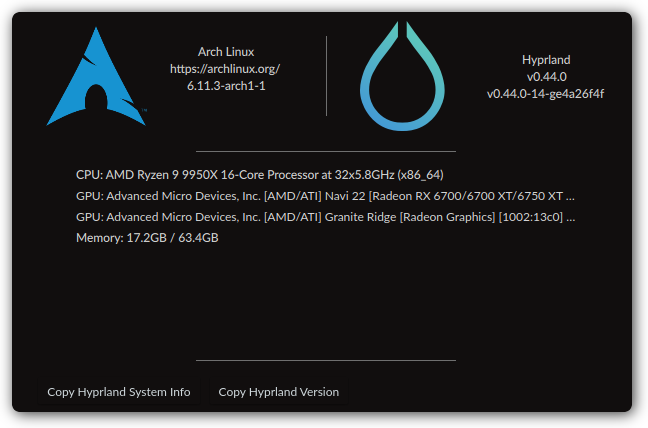
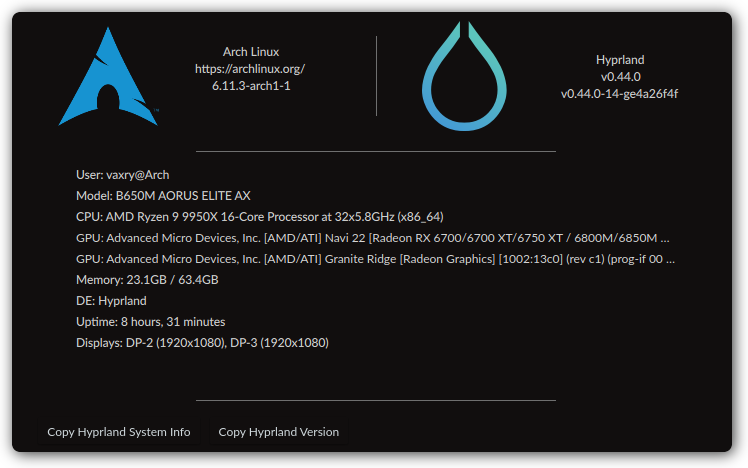
core: add more data fields

diff --git a/qml/main.qml b/qml/main.qml
@@ -152,6 +152,26 @@ ApplicationWindow {
             Layout.rightMargin: 60
 
             Text {
+                visible: hsi.getUserAt().length() > 0
+                text: "User: " + hsi.getUserAt()
+                Layout.maximumWidth: _width - 120
+                color: system.windowText
+                elide: Text.ElideRight
+                textFormat: Text.PlainText
+                wrapMode: Text.NoWrap
+            }
+
+            Text {
+                visible: hsi.getModel().length() > 0
+                text: "Model: " + hsi.getModel()
+                Layout.maximumWidth: _width - 120
+                color: system.windowText
+                elide: Text.ElideRight
+                textFormat: Text.PlainText
+                wrapMode: Text.NoWrap
+            }
+
+            Text {
                 text: "CPU: " + hsi.getCPUInfo()
                 Layout.maximumWidth: _width - 120
                 color: system.windowText
@@ -178,6 +198,33 @@ ApplicationWindow {
 
             Text {
                 text: "Memory: " + hsi.getRAMInfo()
+                Layout.maximumWidth: _width - 120
+                color: system.windowText
+                elide: Text.ElideRight
+                textFormat: Text.PlainText
+                wrapMode: Text.NoWrap
+            }
+
+            Text {
+                text: "DE: " + hsi.getDE()
+                Layout.maximumWidth: _width - 120
+                color: system.windowText
+                elide: Text.ElideRight
+                textFormat: Text.PlainText
+                wrapMode: Text.NoWrap
+            }
+
+            Text {
+                text: "Uptime: " + hsi.getUptime()
+                Layout.maximumWidth: _width - 120
+                color: system.windowText
+                elide: Text.ElideRight
+                textFormat: Text.PlainText
+                wrapMode: Text.NoWrap
+            }
+
+            Text {
+                text: "Displays: " + hsi.getDisplays()
                 Layout.maximumWidth: _width - 120
                 color: system.windowText
                 elide: Text.ElideRight

diff --git a/src/main.cpp b/src/main.cpp
@@ -4,6 +4,7 @@
 #include <QQmlApplicationEngine>
 #include <QQmlContext>
 #include <QQuickStyle>
+#include <QScreen>
 #include <fstream>
 #include <format>
 #include "util/Utils.hpp"
@@ -12,7 +13,19 @@
 #include <hyprutils/string/String.hpp>
 using namespace Hyprutils::String;
 
-static void getSystemInfo(CSystemInternals* hsi) {
+static std::string readFile(const std::string& filename) {
+    try {
+        std::ifstream ifs(filename);
+        if (ifs.good()) {
+            std::string data(std::istreambuf_iterator<char>{ifs}, {});
+            ifs.close();
+            return trim(data);
+        }
+    } catch (...) { return "[error]"; }
+    return "[error]";
+}
+
+static void getSystemInfo(CSystemInternals* hsi, QGuiApplication* app) {
 
     // gather data from os-release
     std::ifstream osInfo("/etc/os-release");
@@ -147,6 +160,31 @@ static void getSystemInfo(CSystemInternals* hsi) {
             hsi->ramInfo = std::format("{} / {}", ramIntToReadable(props[2]), ramIntToReadable(props[1])).c_str();
         }
     }
+
+    // other, misc
+    if (const auto DE = getenv("XDG_CURRENT_DESKTOP"); DE)
+        hsi->DE = DE;
+
+    if (const auto UPTIME = execAndGet("uptime -p"); !UPTIME.empty())
+        hsi->uptime = trim(UPTIME.find("up ") == 0 ? UPTIME.substr(3) : UPTIME).c_str();
+
+    {
+        std::string screens;
+
+        for (auto& s : app->screens()) {
+            screens += std::format("{} ({}x{}), ", s->name().toStdString(), s->geometry().width(), s->geometry().height());
+        }
+
+        if (!screens.empty())
+            screens = screens.substr(0, screens.length() - 2);
+
+        hsi->screens = screens.c_str();
+    }
+
+    hsi->user = std::format("{}@{}", trim(execAndGet("whoami")), readFile("/etc/hostname")).c_str();
+
+    if (const auto BOARD = readFile("/sys/devices/virtual/dmi/id/board_name"); BOARD != "[error]")
+        hsi->board = BOARD.c_str();
 }
 
 int main(int argc, char* argv[]) {
@@ -158,7 +196,7 @@ int main(int argc, char* argv[]) {
 
     auto systemInternals = new CSystemInternals;
 
-    getSystemInfo(systemInternals);
+    getSystemInfo(systemInternals, &app);
 
     QQmlApplicationEngine engine;
     engine.rootContext()->setContextProperty("hsi", systemInternals);

diff --git a/qmlSources/SystemInternals.hpp b/qmlSources/SystemInternals.hpp
@@ -23,6 +23,8 @@ class CSystemInternals : public QObject {
 
     QString              hlSystemInfo = "[error]", hlSystemVersion = "[error]";
 
+    QString              uptime = "unknown", DE = "Unknown", screens = "unknown", board = "", user = "";
+
     Q_INVOKABLE bool     hasSystemLogoName() {
         return systemLogoName.size() > 0;
     }
@@ -71,6 +73,26 @@ class CSystemInternals : public QObject {
 
     Q_INVOKABLE QString getRAMInfo() {
         return ramInfo;
+    }
+
+    Q_INVOKABLE QString getDE() {
+        return DE;
+    }
+
+    Q_INVOKABLE QString getUptime() {
+        return uptime;
+    }
+
+    Q_INVOKABLE QString getDisplays() {
+        return screens;
+    }
+
+    Q_INVOKABLE QString getModel() {
+        return board;
+    }
+
+    Q_INVOKABLE QString getUserAt() {
+        return user;
     }
 
     Q_INVOKABLE void copySystemInfo();
